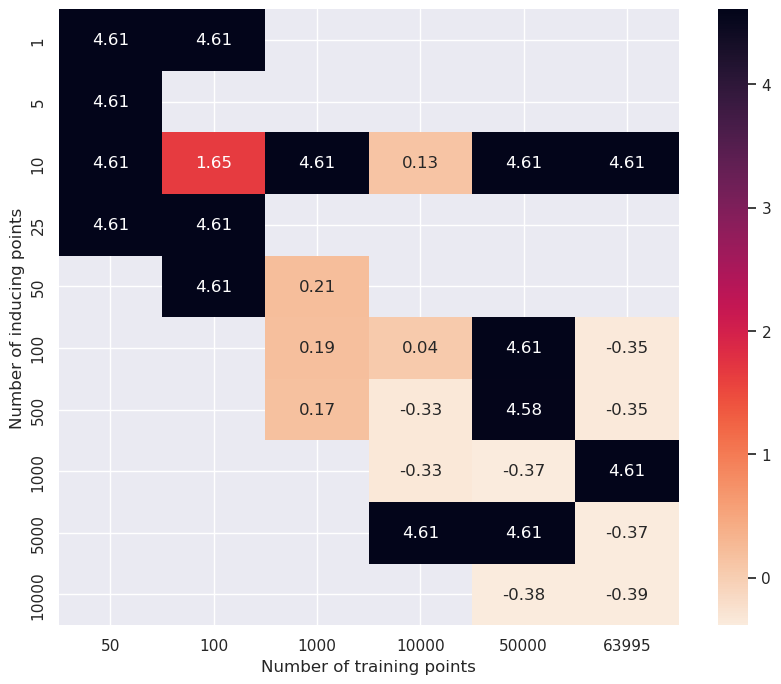
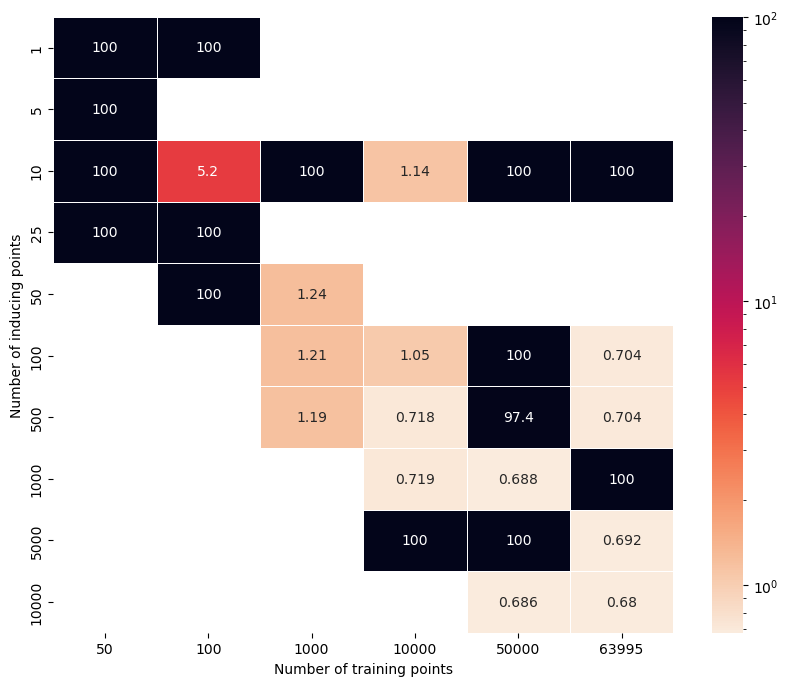
updated visualizations

diff --git a/Gaussian_Processes/Visualize.py b/Gaussian_Processes/Visualize.py
@@ -4,9 +4,15 @@ import pandas as pd
 import seaborn as sns
 import numpy as np
 import matplotlib.pyplot as plt
+from matplotlib.colors import LogNorm
 
 #%% HEATMAP NA NB
 
+def format_annotation(value):
+    if 10<= value <= 10000:
+        return f"{int(value):.0f}"
+    else:
+        return f"{value:.2g}"
 
 for split in ['val_pred', 'val_sim']:
     # Read the CSV file
@@ -14,7 +20,7 @@ for split in ['val_pred', 'val_sim']:
     data = pd.read_csv(file_path)
 
     # Replace 'na' and 'nb' with NaN in the nrms column
-    data['nrms'] = np.log(data['nrms']).replace(['na', 'nb'], np.nan)
+    data['nrms'] = (data['nrms']).replace(['na', 'nb'], np.nan)
 
     # Pivot the data to create a matrix for the heatmap
     heatmap_data = data.pivot('na', 'nb', 'nrms')
@@ -23,7 +29,7 @@ for split in ['val_pred', 'val_sim']:
     plt.figure(figsize=(10, 8))
 
     # Create the heatmap
-    ax = sns.heatmap(heatmap_data, vmin=-0.39, vmax=8, cmap=sns.cm.rocket_r,annot=True, linewidths=.5, fmt=".2f")
+    ax = sns.heatmap(heatmap_data, vmin=0.7, vmax=200, cmap=sns.cm.rocket_r,annot=True, linewidths=.5, fmt=".4g", norm=LogNorm())
 
     # Set the labels for x-axis and y-axis
     ax.set(xlabel='nb', ylabel='na')
@@ -35,6 +41,11 @@ for split in ['val_pred', 'val_sim']:
     # Set the position of x-axis ticks and label
     ax.xaxis.set_ticks_position('top')
     ax.xaxis.set_label_position('top')
+
+    for i, annotation in enumerate(ax.texts):
+        ax.texts[i].set_text(format_annotation(float(annotation.get_text())))
+        
+
 
     # Display the heatmap
     plt.show()
@@ -84,7 +95,7 @@ for split in ['val_pred', 'val_sim']:
     csv_path = '/home/dlehman/5SC28-ML4SC-gym-unbalanced-disk/Gaussian_Processes/results/sparse_GP_varying_inducing_points/'+split+'.csv'
     data = pd.read_csv(csv_path)
 
-    data['nrms'] = np.log(data['nrms'])
+    data['nrms'] = (data['nrms'])
     data['N_training_points'] = data['N_training_points'].astype('int')
     data['N_inducing_points'] = data['N_inducing_points'].astype('int')
 
@@ -93,7 +104,8 @@ for split in ['val_pred', 'val_sim']:
 
     # Plot the heatmap using seaborn
     plt.figure(figsize=(10, 8))  # Set the figure size
-    sns.heatmap(pivot_data, vmin=-0.39, vmax=8 ,annot=True, cmap=sns.cm.rocket_r, fmt=".2f", cbar=True)  # Customize the heatmap
+    # sns.set_style('ticks')  # Remove the gridlines
+    sns.heatmap(pivot_data, vmin=-0.39, vmax=8 ,annot=True, cmap=sns.cm.rocket_r, fmt=".3g", cbar=True, norm = LogNorm(), linewidths=0.5)  # Customize the heatmap
 
     # Set the axis labels and title
     plt.xlabel('Number of training points')

diff --git a/Gaussian_Processes/sparse_GP_NARX.py b/Gaussian_Processes/sparse_GP_NARX.py
@@ -2,7 +2,7 @@
 import GPy
 import numpy as np
 import matplotlib.pyplot as plt
-from pim_support import use_NARX_model_in_simulation, import_data, make_training_data
+from functions import use_NARX_model_in_simulation, import_data, make_training_data
 import pandas as pd
 import os
 
